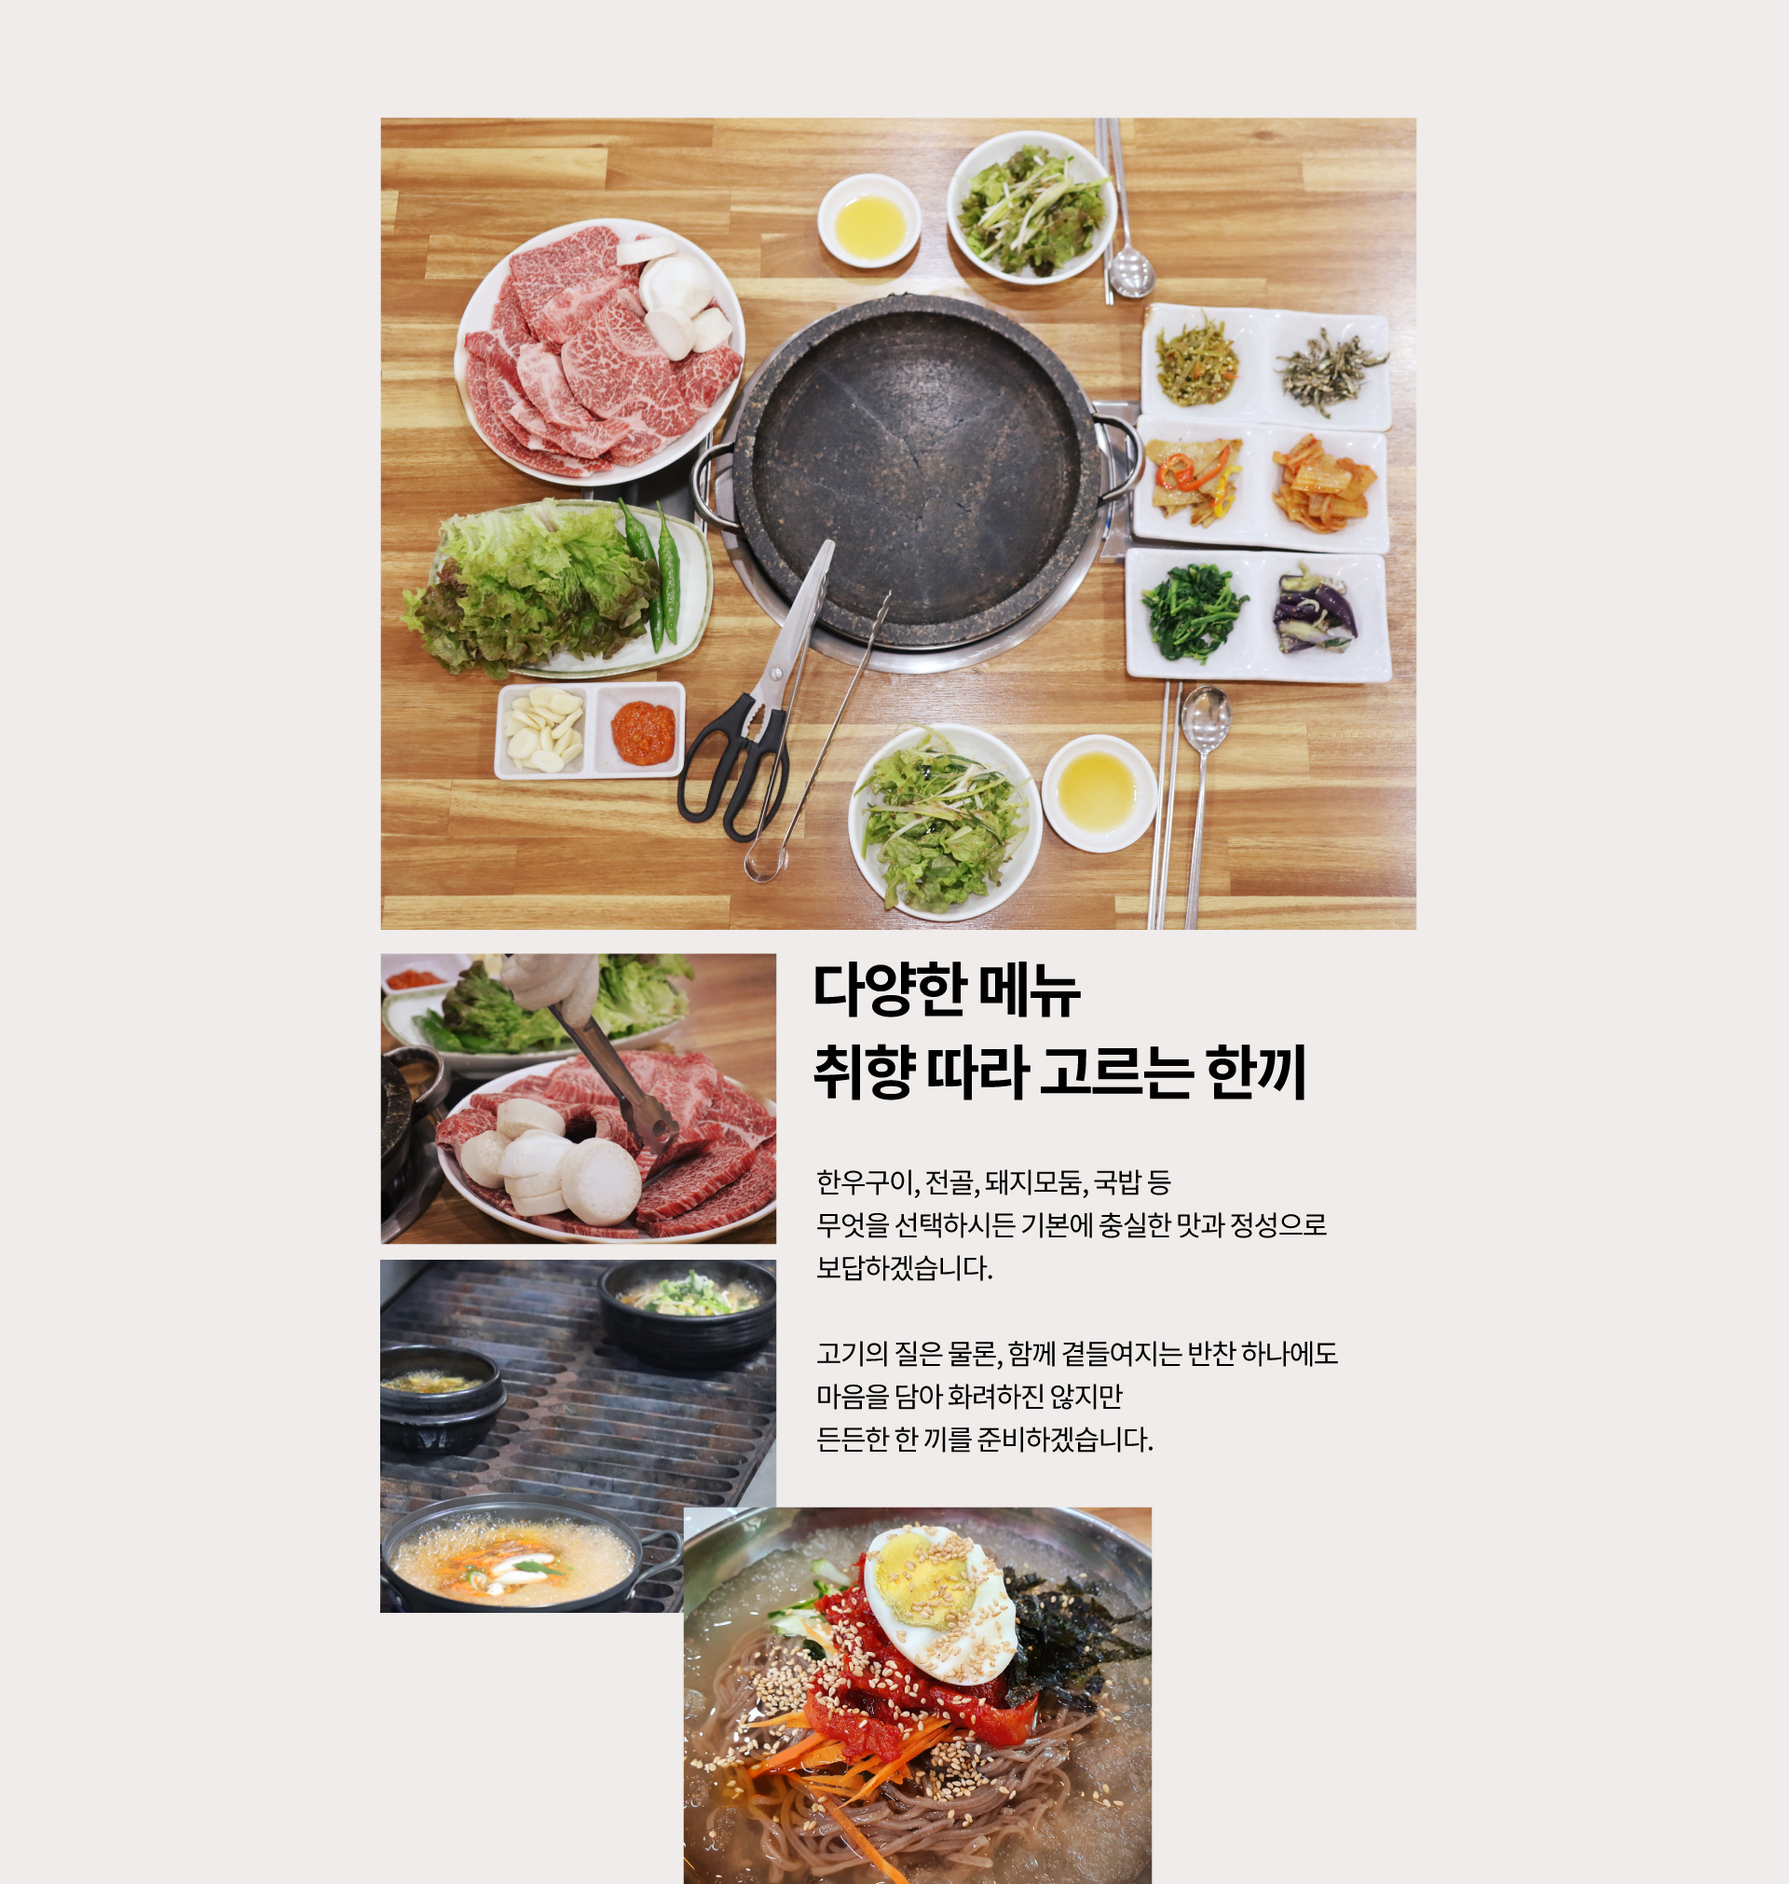
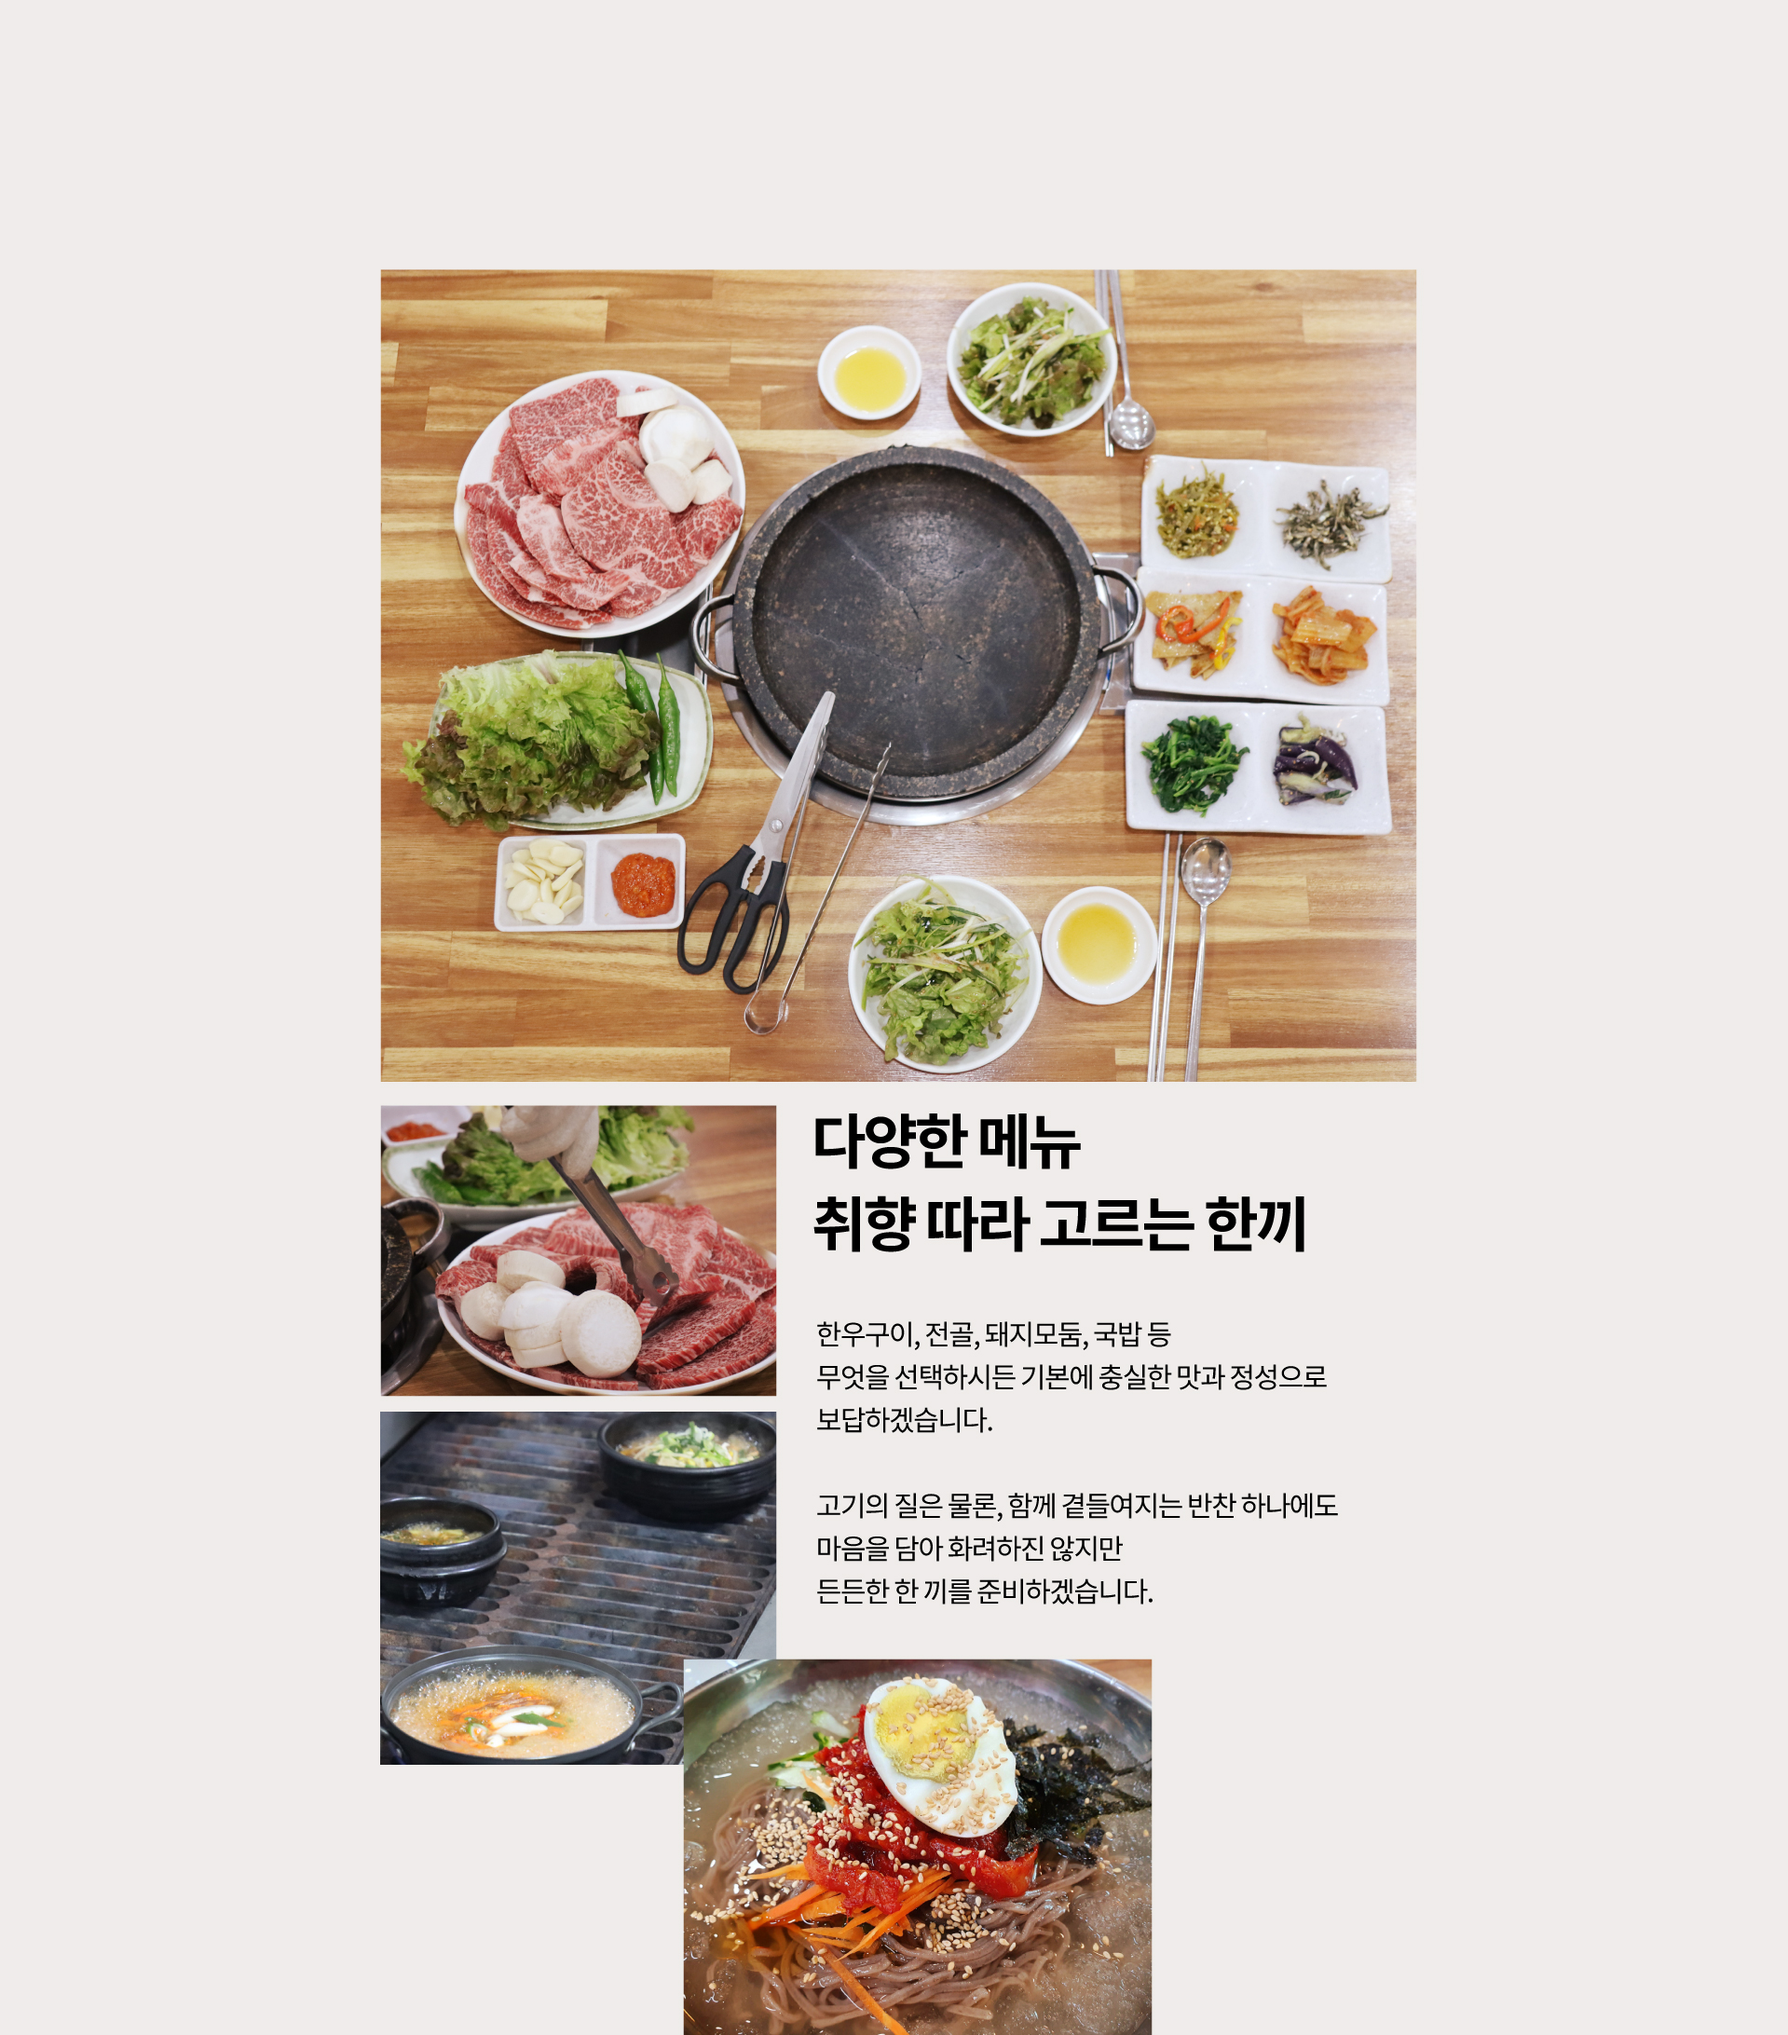
냥

diff --git a/src/components/store/storeDetail.css b/src/components/store/storeDetail.css
@@ -436,8 +436,8 @@
 
 /* 도원 */
 .dowon1 {
-  top: 55%;
-  right: 15%;
+  top: 51%;
+  right: 18%;
   font-size: clamp(28px, 4vw, 60px);
   font-weight: bold;
   text-align: left;
@@ -446,8 +446,8 @@
 }
 
 .dowon2 {
-  top: 9%;
-  left: 20.5%;
+  top: 15%;
+  left: 16%;
   transform: translateX(0);
   font-size: clamp(28px, 4vw, 60px);
   font-weight: 700;
@@ -459,8 +459,8 @@
 
 
 .dowon3 {
-  top: 30%;
-  right: 27%;
+  top: 32%;
+  right: 28.5%;
   font-size: clamp(28px, 4vw, 60px);
   font-weight: 700;
   text-align: start;
@@ -661,7 +661,7 @@
 }
 
 .Fire2 {
-  top: 5.5%;
+  top: 11%;
   left: 21%;
   transform: translateX(0);
   font-size: clamp(28px, 4vw, 60px);
@@ -685,7 +685,7 @@
 
 /* 상구 */
 .sanggu1 {
-  top: 25%;
+  top: 28%;
   right: 22%;
   font-size: clamp(28px, 4vw, 60px);
   font-weight: bold;
@@ -695,7 +695,7 @@
 }
 
 .sanggu2 {
-  top: 11%;
+  top: 5%;
   left: 21.5%;
   transform: translateX(0);
   font-size: clamp(28px, 4vw, 60px);
@@ -718,8 +718,8 @@
 
 /* 삼가명품한우 */
 .samga1 {
-  top: 15%;
-  right: 24.3%;
+  top: 20%;
+  right: 22%;
   font-size: clamp(28px, 4vw, 60px);
   font-weight: bold;
   text-align: left;
@@ -728,7 +728,7 @@
 }
 
 .samga2 {
-  top: 14%;
+  top: 8%;
   left: 21%;
   transform: translateX(0);
   font-size: clamp(28px, 4vw, 60px);
@@ -740,7 +740,7 @@
 
 
 .samga3 {
-  top: 41%;
+  top: 43%;
   right: 36.5%;
   font-size: clamp(28px, 4vw, 60px);
   font-weight: 700;
